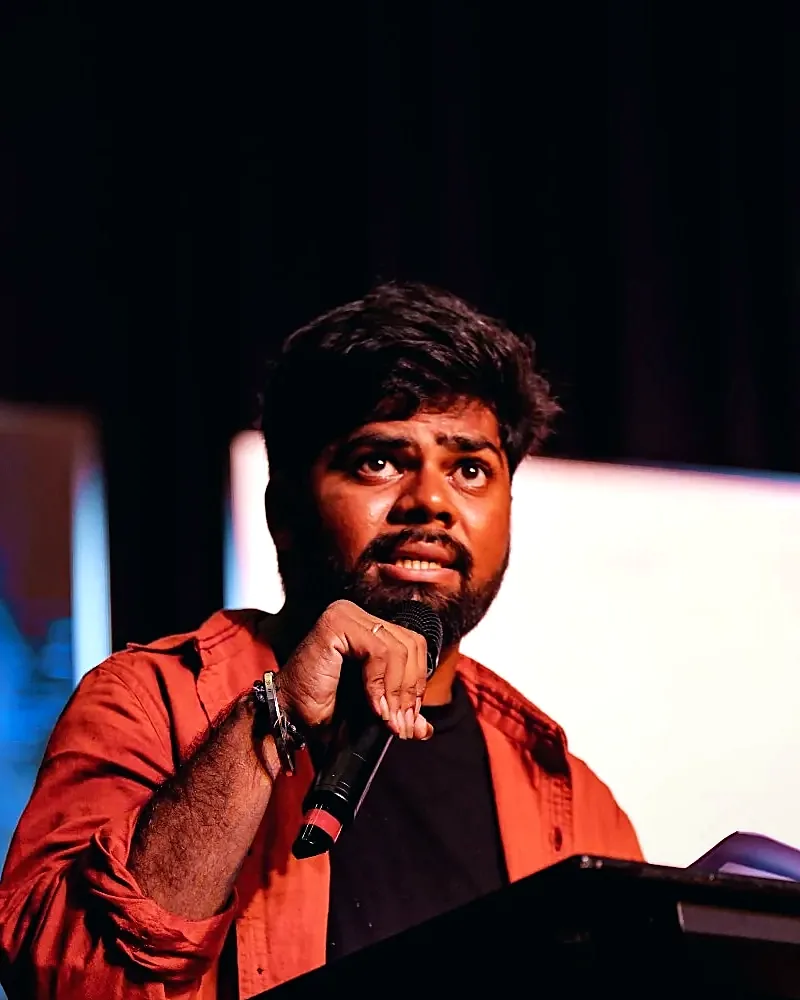
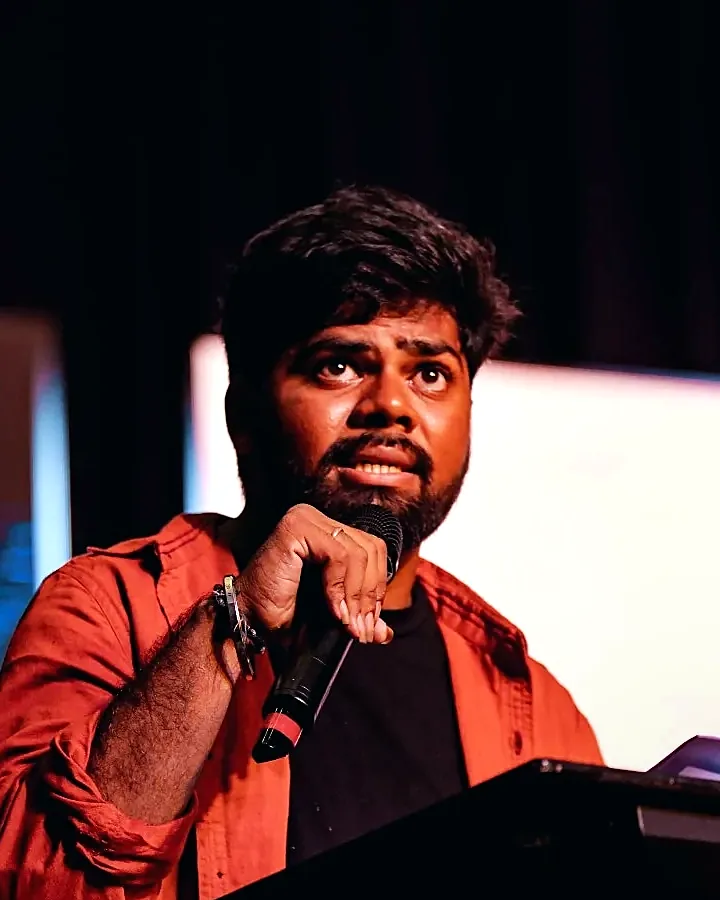
Straighten and recrop the hero photo
- Remove the 2.5° tilt on the photo card and image
- Recrop the portrait so the face sits higher with less empty headroom
- Move the "Indian Navy" chip below the face on small screens

diff --git a/src/components/HeroSection.tsx b/src/components/HeroSection.tsx
@@ -219,14 +219,14 @@ export const HeroSection: React.FC<HeroSectionProps> = ({ onOpenContact }) => {
               <span aria-hidden className="orb float-slower w-24 h-24 sm:w-28 sm:h-28 -top-10 -right-8 sm:-right-14" />
               <span aria-hidden className="orb-glass orb float-slow w-14 h-14 -bottom-8 right-4" />
               <span aria-hidden className="orb float-slow w-8 h-8 top-[72%] -left-10 sm:-left-14" />
-              <div className="relative photo-ring rounded-[2.25rem] p-[3px] rotate-[2.5deg] shadow-2xl shadow-blue-600/25">
-                <div className="relative aspect-[4/5] rounded-[2.1rem] overflow-hidden bg-gradient-to-br from-blue-100 to-sky-100 flex items-center justify-center">
+              <div className="relative photo-ring rounded-[2rem] p-[3px] shadow-2xl shadow-blue-600/25">
+                <div className="relative aspect-[4/5] rounded-[1.85rem] overflow-hidden bg-gradient-to-br from-blue-100 to-sky-100 flex items-center justify-center">
                   {photoOk ? (
                     <img
                       ref={imgRef}
                       src={photo}
                       alt={profile?.fullName || "Charan Venkatesh Gorle"}
-                      className="w-full h-full object-cover -rotate-[2.5deg] scale-110"
+                      className="w-full h-full object-cover object-center"
                       onError={() => setPhotoOk(false)}
                     />
                   ) : (
@@ -245,7 +245,7 @@ export const HeroSection: React.FC<HeroSectionProps> = ({ onOpenContact }) => {
                   <div className="text-xs font-bold text-slate-900">OpenTelemetry · Neo4j</div>
                 </div>
               </div>
-              <div className="float-slower absolute -right-3 sm:-right-6 top-[46%] flex items-center gap-2.5 pl-2 pr-3.5 py-2 rounded-2xl bg-white/95 border border-slate-200/80 shadow-xl shadow-blue-500/10 backdrop-blur">
+              <div className="float-slower absolute -right-3 sm:-right-6 top-[66%] flex items-center gap-2.5 pl-2 pr-3.5 py-2 rounded-2xl bg-white/95 border border-slate-200/80 shadow-xl shadow-blue-500/10 backdrop-blur">
                 <span className="w-8 h-8 rounded-xl bg-blue-100 text-blue-600 flex items-center justify-center">
                   <Anchor className="w-4 h-4" />
                 </span>
